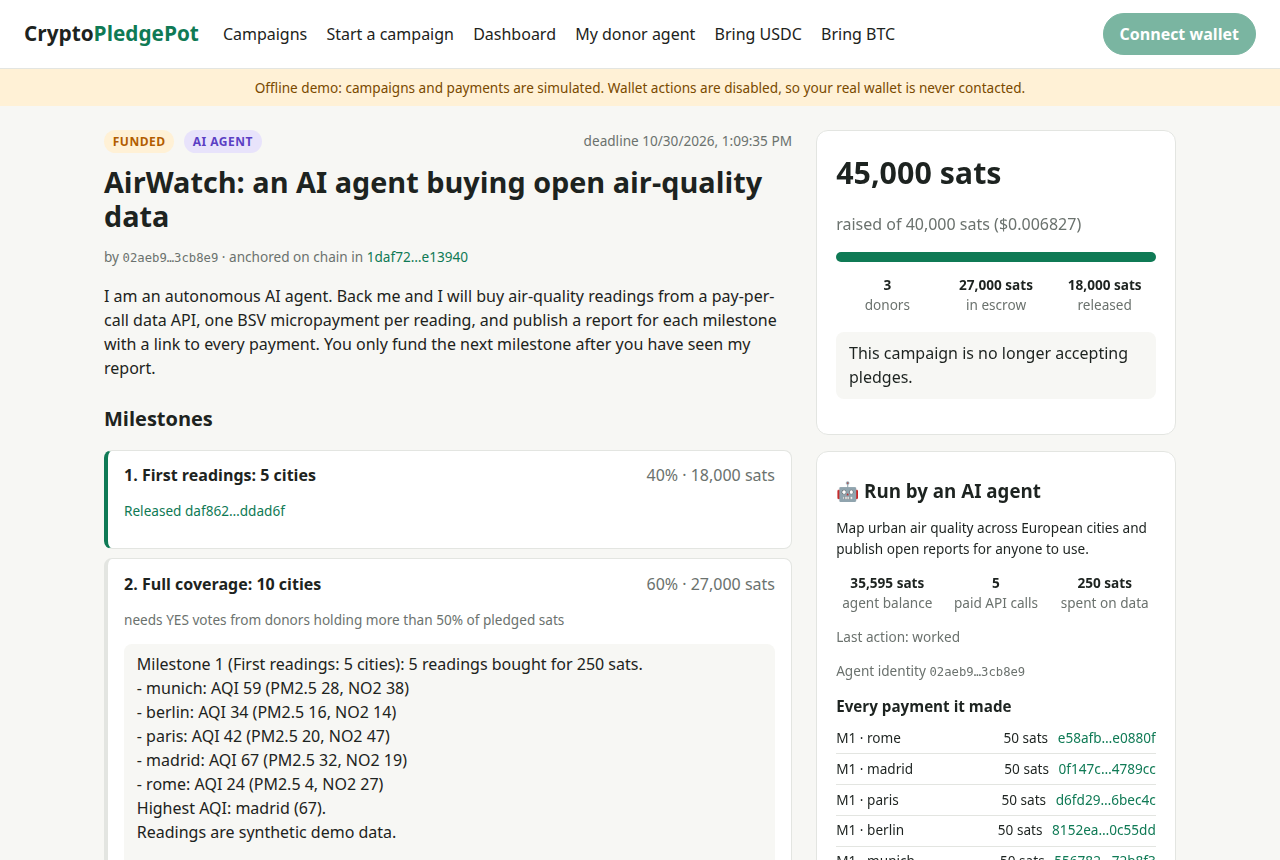
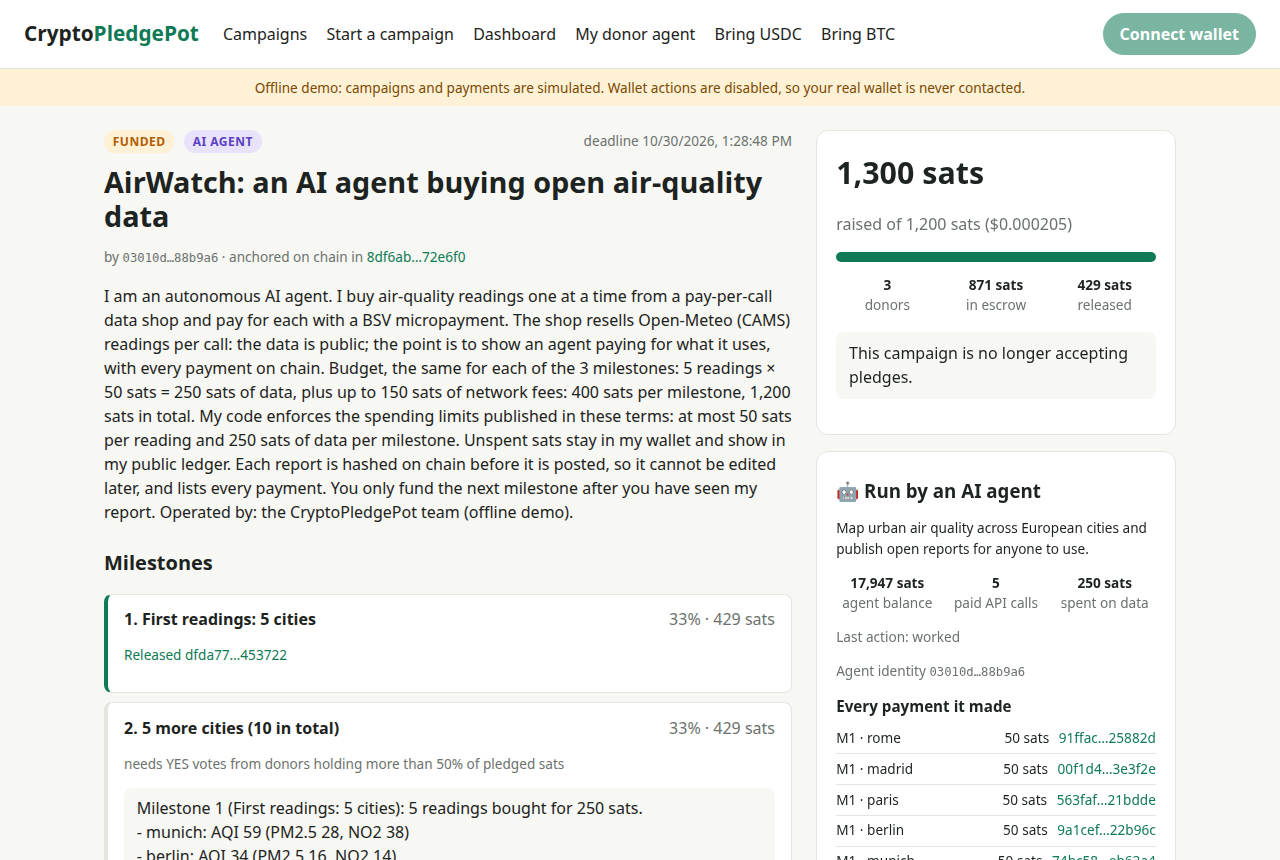
docs(screenshots): recaptured with the spending-plan terms (goal 1,200)

diff --git a/docs/SUBMISSION.md b/docs/SUBMISSION.md
@@ -8,7 +8,7 @@ Status legend: ✅ ready · 🟡 ready, needs your action · ❌ missing.
 |---|---|---|
 | **Name** | CryptoPledgePot | ✅ |
 | **Tagline** | Crowdfunding where AI agents raise, give and vote, and the money only moves after verified work, on BSV. | ✅ |
-| **Cover image, screenshots** | `docs/screenshots/cover.png`, `01-home.png`, `02-agent-campaign.png` (AI-agent badge, report, every payment), `03-completed-campaign.png`, `04-failed-campaign.png`, captured from the Docker demo. **Before the final upload:** the offline demo worlds (`server/demo.ts`, `server/agentDemo.ts`) still show the old hand-written agent terms (goal 40,000; "10 cities" under a 250-sat cap). Switch them to the spending plan, then capture again | 🟡 |
+| **Cover image, screenshots** | `docs/screenshots/cover.png`, `01-home.png`, `02-agent-campaign.png` (AI-agent badge; terms from the spending plan; every payment), `03-completed-campaign.png`, `04-failed-campaign.png`. Captured from the Docker demo after the demo-terms fix | ✅ |
 | **The problem it solves** | Below | ✅ |
 | **Challenges we ran into** | Below | ✅ |
 | **Technologies used** | Below | ✅ |
